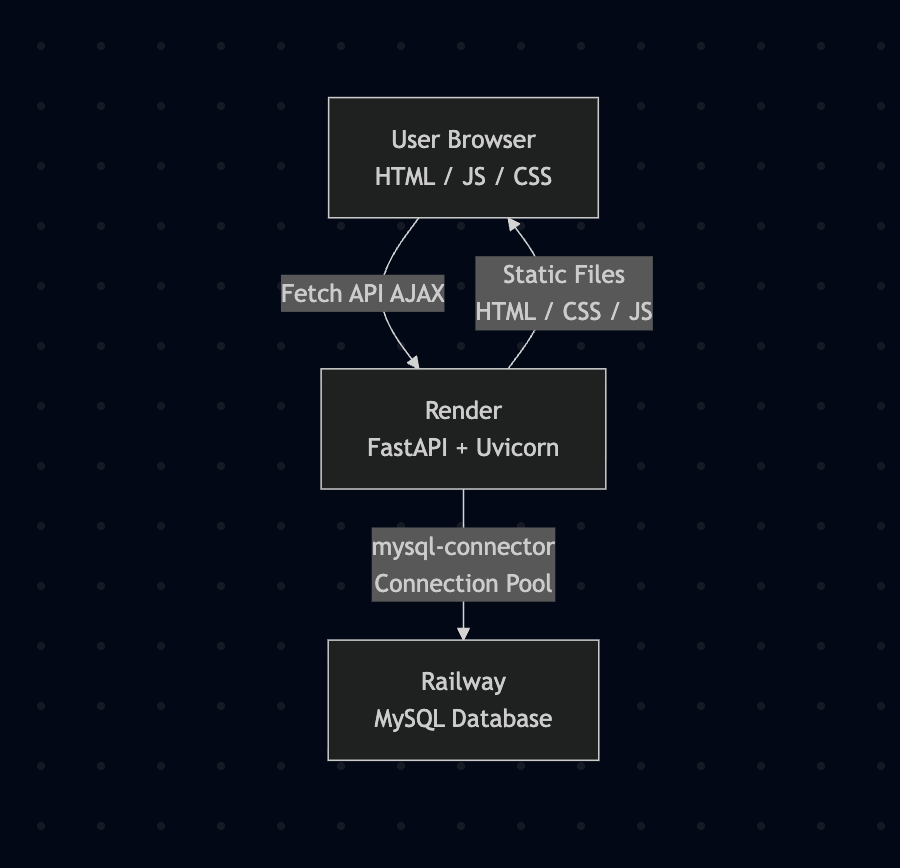
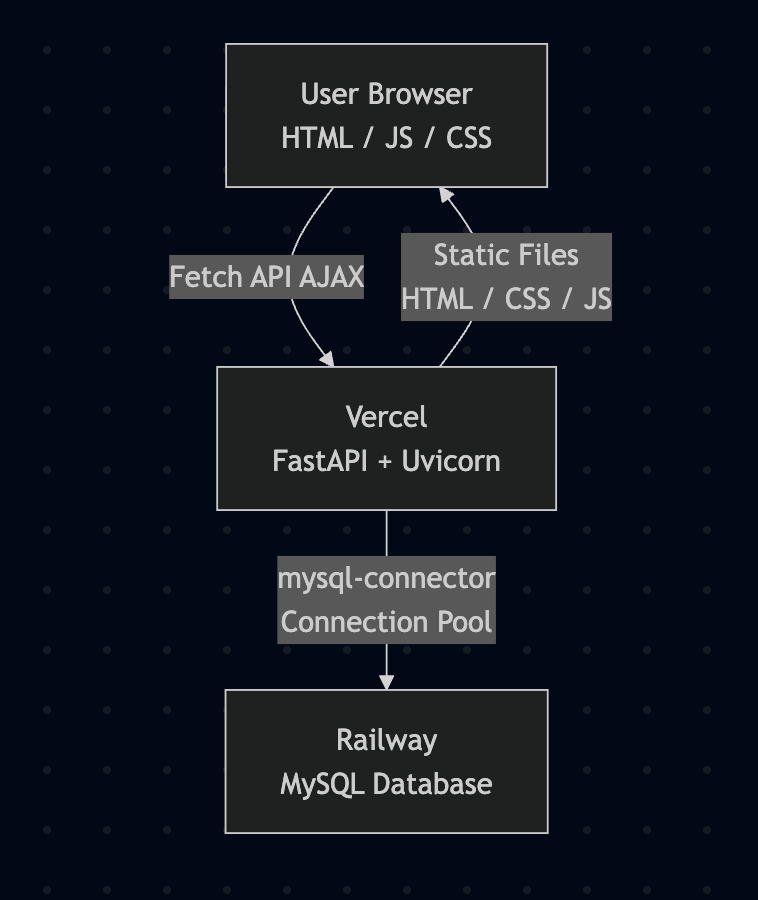
Updated system architecture pic and demo link.

Changed region(s): [[0.2124, 0.0311, 0.8193, 0.9332]]

diff --git a/README.md b/README.md
@@ -2,7 +2,7 @@
 
 A full-stack e-commerce travel website for exploring and booking sightseeing trips in Taipei, with credit card payment integration via TapPay.
 
-**Live Demo:** https://taipei-day-trip.onrender.com/
+**Live Demo:** https://taipei-day-trip-two.vercel.app/
 
 ![Taipei Day Trip Landing Page](./docs/landing_page.png)
 
